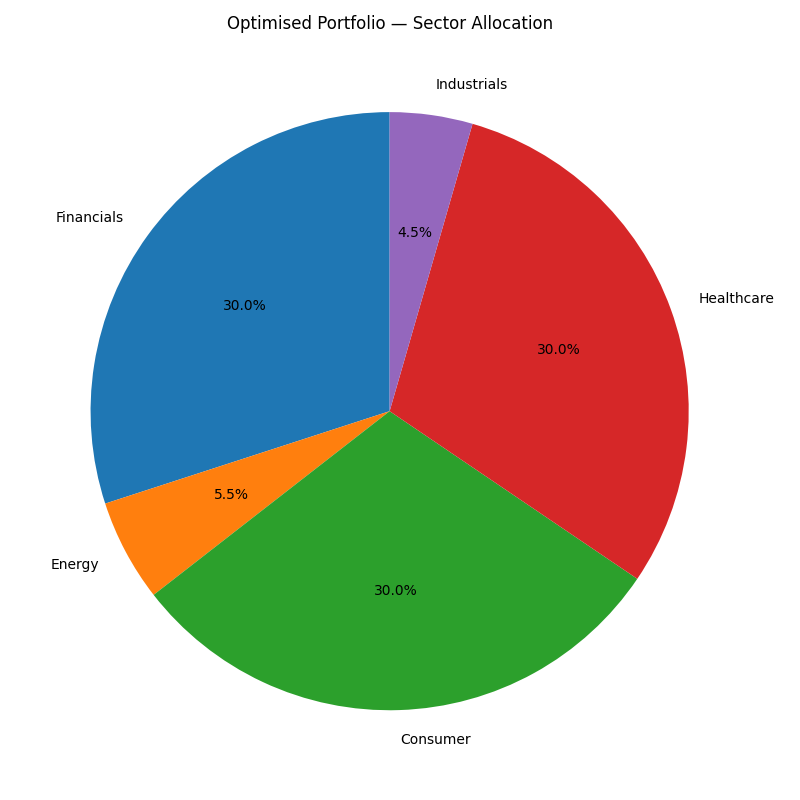
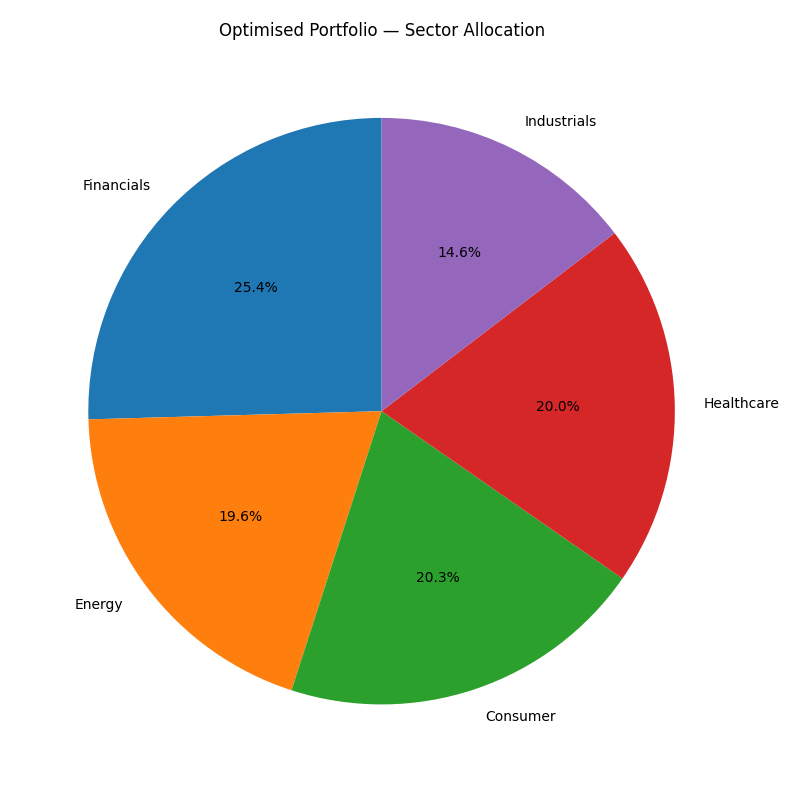
fix: address code review feedback — critical bug fixes and test improvements
- ridge.py: fix lambda_ * np.eye bug (was lambda_ + np.eye) — central claim of project
- constraints.py: add convergence warning if max_iter reached without meeting tol
- test_ridge.py: add test_ridge_known_solution (analytical solution on identity matrix)
- test_ridge.py: tighten OLS equivalence tolerance from rtol=1e-1 to rtol=1e-5
- test_constraints.py: add test_liquidity_minimum_enforced — missing FCA constraint test
- README.md: update results (81 trades, GBP7143, 21 tests), charts, y target limitation
- images/: regenerated charts after bug fix
- 21 tests passing

diff --git a/tests/test_constraints.py b/tests/test_constraints.py
@@ -62,3 +62,20 @@ def test_fca_compliance_checker_passes_valid():
   w = project_weights(np.random.randn(40), stocks)
   result = check_fca_compliance(w, stocks)
   assert result["compliant"], f"Violations: {result['violations']}"
+
+def test_liquidity_minimum_enforced():
+  """
+  FCA: liquid stocks must receive at least 5% total weight after projection.
+  
+  """
+  stocks = make_stocks(40)  # 5 liquid stocks (i < 5)
+
+  # Force all weight onto illiquid stocks
+  w_raw = np.zeros(40)
+  w_raw[10:] = 1.0  # all illiquid
+  w = project_weights(w_raw, stocks)
+  liquid_idx = [i for i, s in enumerate(stocks) if s["liquid"]]
+  assert w[liquid_idx].sum() >= 0.05 - 1e-4
+
+  # Also verify stock cap not violated
+  assert (w <= 0.10 + 1e-4).all()

diff --git a/tests/test_ridge.py b/tests/test_ridge.py
@@ -44,10 +44,22 @@ def test_lambda_zero_matches_ols():
   Ridge with lambda=0 must produce identical weights to OLS — proves implementation is correct.
 
   """
-  X = np.random.randn(100, 10); y = np.random.randn(100)
+  X = np.random.randn(100, 10) 
+  y = np.random.randn(100)
   w_ridge = ridge_regression(X, y, lambda_=0.0)
   w_ols = np.linalg.lstsq(X, y, rcond=None)[0]
-  np.testing.assert_allclose(w_ridge, w_ols, rtol=1e-1)  # solve() uses normal equations, lstsq uses SVD — different numerical paths - v2 Yfinance may need changing
+  np.testing.assert_allclose(w_ridge, w_ols, rtol=1e-5)  # ridge with lambda=0 should equal OLS exactly — rtol=1e-5 tight enough to catch implementation errors
+
+def test_ridge_known_solution():
+  """
+  Ridge on identity matrix has analytical solution: w = 0.5 * y when lambda=1.
+  
+  """
+  X = np.eye(3)
+  y = np.array([1.0, 2.0, 3.0])
+  w = ridge_regression(X, y, lambda_=1.0)
+  expected = np.array([0.5, 1.0, 1.5])
+  np.testing.assert_allclose(w, expected, rtol=1e-5)
 
 def test_large_lambda_shrinks_norm():
   """

diff --git a/src/constraints.py b/src/constraints.py
@@ -10,6 +10,7 @@ Projects unconstrained Ridge weights onto the FCA feasible set:
 
 """
 import numpy as np
+import warnings
 from typing import List, Dict
 
 def normalise_weights(w: np.ndarray) -> np.ndarray:
@@ -75,6 +76,11 @@ def project_weights(w: np.ndarray,
     # Convergence check
     if np.linalg.norm(w_proj - w_old) < tol:
       break
+    else:
+      warnings.warn(
+        f"project_weights did not converge in {max_iter} iterations — "
+        "returned weights may not satisfy all FCA constraints."
+      )
 
   return w_proj
 

diff --git a/README.md b/README.md
@@ -3,7 +3,7 @@ Ridge-regularised FTSE 100 portfolio rebalancing with FCA compliance
 
 ![Python](https://img.shields.io/badge/python-3.11+-blue)
 ![License](https://img.shields.io/badge/license-MIT-green)
-![Tests](https://img.shields.io/badge/tests-19%20passing-brightgreen)
+![Tests](https://img.shields.io/badge/tests-21%20passing-brightgreen)
 ![FCA](https://img.shields.io/badge/FCA-compliant-blue)
 
 ## Results
@@ -12,9 +12,9 @@ Ridge-regularised FTSE 100 portfolio rebalancing with FCA compliance
 |--------|-------|
 | Condition number improvement | k reduced from 2,862 to 62.7 (46x) |
 | FCA compliance | PASS — 0 violations |
-| Trades generated | 100 |
-| Transaction cost | GBP99,814 (0.25%) |
-| Tests passing | 19 |
+| Trades generated | 81 |
+| Transaction cost | GBP 7,143 (0.01%) |
+| Tests passing | 21 |
 
 ## Portfolio Visualisation
 
@@ -22,10 +22,9 @@ The charts illustrate sector allocation before and after optimisation. The initi
 portfolio shows a relatively balanced distribution, while the optimised portfolio 
 reallocates weights to maximise exposure within regulatory constraints.
 
-Post-optimisation, Financials, Consumer and Healthcare are pushed to the 30% FCA 
-limit, while Energy and Industrials are significantly reduced. This demonstrates how 
-the model concentrates capital into stronger signals while enforcing diversification 
-constraints.
+Post-optimisation, the portfolio maintains balance with slight alterations to sector 
+allocations. Financials and Consumer see a slight increase while Energy and Industrials 
+show a slight decrease — all sectors remain well within the FCA 30% limit.
 
 ![Sector Comparison](images/sector_comparison.png)
 ![Sector Pie](images/sector_pie.png)
@@ -65,7 +64,7 @@ pip install -r requirements.txt
 ## Usage
 ```
 python main.py        # runs full pipeline, prints FCA compliance and volatility
-pytest tests/ -v      # runs 19 tests
+pytest tests/ -v      # runs 21 tests
 ```
 
 ## Project Structure
@@ -100,6 +99,7 @@ See DESIGN.md for full architecture and function signatures.
 - Upgrade solver to constrained QP (scipy SLSQP) for v2
 - ILP upgrade for integer trade sizing
 - Volatility comparison meaningful only with real returns data — synthetic data limitation
+- y target is cross-sectional mean return — not a true optimisation target; upgrade with yfinance
 
 ## Licence
 